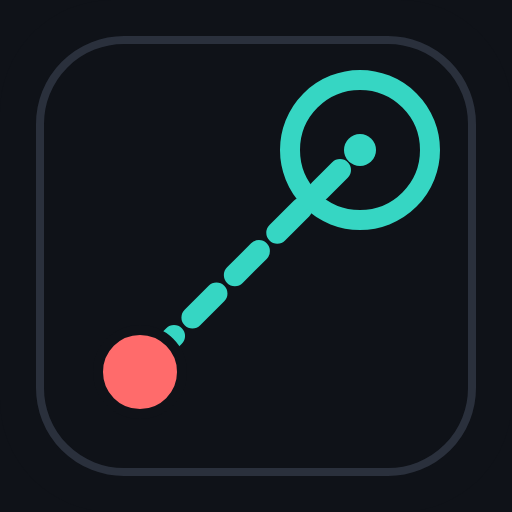
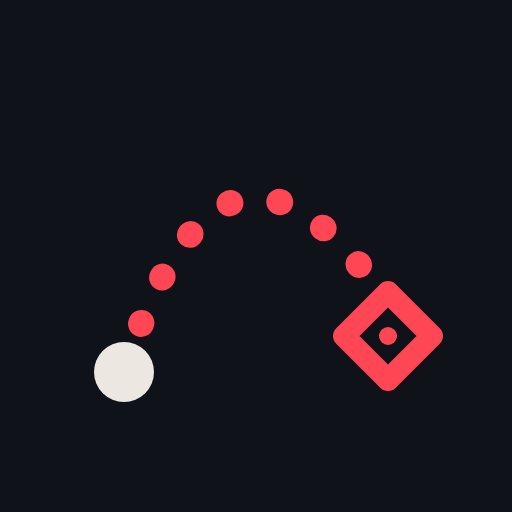
All-agent picker, site letters on maps, simpler detail header, ARC branding
- Agent row lists every agent (icon only, count badge); tap to select, tap again to clear
- 'All agents' reset moves next to the result count; selection is remembered
- Site letters (A/B/C) drawn on the map from valorant-api callouts
- Detail: remove practiced/copy-link footer, edit button moves to the header
- New name ARC — Valorant Lineups with a new minimal icon
- Fix stray 'null' text from replaceChildren

Claude-Session: https://claude.ai/code/session_01Hb5hSZZH2DuYNe5kmAsvQF

diff --git a/assets/app.js b/assets/app.js
@@ -1,6 +1,6 @@
 'use strict';
 
-/* สมุด Lineup — static, no build step.
+/* ARC (Valorant Lineups) — static, no build step.
  * Data sources:
  *   data/lineups.json      → lineups committed to the repo (shared by every device)
  *   localStorage lp.local  → edits made in this browser, not yet exported
@@ -15,7 +15,8 @@ const LS = {
   local: 'lp.local.v1',
   practiced: 'lp.practiced.v1',
   lastMap: 'lp.lastMap',
-  maps: 'lp.api.maps.v1',
+  maps: 'lp.api.maps.v2',
+  agent: 'lp.agent',
   agents: 'lp.api.agents.v1',
 };
 
@@ -111,7 +112,7 @@ const state = {
   local: store.get(LS.local, {}),
   practiced: store.get(LS.practiced, {}),
   map: null,
-  f: { agents: new Set(), side: 'all', site: 'all', type: 'all', q: '', todo: false },
+  f: { agents: new Set(store.get(LS.agent, null) ? [store.get(LS.agent, null)] : []), side: 'all', site: 'all', type: 'all', q: '', todo: false },
   selected: null,
   pick: null,
   editing: null,
@@ -139,8 +140,33 @@ function pickMaps(arr) {
   return arr
     .filter((m) => m.tacticalDescription && m.displayIcon && m.displayName)
     .filter((m) => !seen.has(norm(m.displayName)) && seen.add(norm(m.displayName)))
-    .map((m) => ({ name: m.displayName, icon: m.displayIcon, banner: m.listViewIcon || m.splash || null }))
+    .map((m) => ({ name: m.displayName, icon: m.displayIcon, banner: m.listViewIcon || m.splash || null, sites: mapSites(m) }))
     .sort((a, b) => a.name.localeCompare(b.name));
+}
+
+/** Site letters (A/B/C) on the minimap, from valorant-api callouts (world coords → 0–1). */
+function mapSites(m) {
+  const k = ['xMultiplier', 'yMultiplier', 'xScalarToAdd', 'yScalarToAdd'];
+  if (!k.every((x) => typeof m[x] === 'number')) return [];
+  const acc = {};
+  for (const c of m.callouts || []) {
+    if (c.regionName !== 'Site' || !/^[ABC]$/.test(c.superRegionName) || !c.location) continue;
+    const x = c.location.y * m.xMultiplier + m.xScalarToAdd;
+    const y = c.location.x * m.yMultiplier + m.yScalarToAdd;
+    if (!(x >= 0 && x <= 1 && y >= 0 && y <= 1)) continue;
+    (acc[c.superRegionName] ||= []).push({ x, y });
+  }
+  return Object.entries(acc).sort().map(([name, pts]) => ({
+    name,
+    x: round3(pts.reduce((t, p) => t + p.x, 0) / pts.length),
+    y: round3(pts.reduce((t, p) => t + p.y, 0) / pts.length),
+  }));
+}
+
+function siteLabels(m, box) {
+  for (const st of m?.sites || []) {
+    box.append(el('span', { class: 'site-lbl', style: `left:${st.x * 100}%;top:${st.y * 100}%`, text: st.name }));
+  }
 }
 
 function pickAgents(arr) {
@@ -342,6 +368,7 @@ function renderMap() {
   const pins = $('#pins');
   svg.replaceChildren();
   pins.replaceChildren();
+  siteLabels(m, pins);
 
   const sel = state.selected;
   const list = visible().filter((l) => l.from || l.to).sort((a, b) => (a.id === sel) - (b.id === sel));
@@ -361,27 +388,36 @@ function hover(id) {
   }
 }
 
+function setAgent(key) {
+  state.f.agents = new Set(key ? [key] : []);
+  store.set(LS.agent, key || null);
+  render();
+}
+
 function renderAgents() {
   const row = $('#agents');
-  const names = [...new Map(all().filter((l) => l.agent).map((l) => {
-    const n = agentOf(l.agent)?.name || l.agent;
-    return [norm(n), n];
-  })).values()].sort((a, b) => a.localeCompare(b));
+  const onMap = all().filter((l) => norm(l.map) === norm(state.map));
+  const count = (name) => onMap.filter((l) => norm(l.agent) === norm(name)).length;
+  // every agent from the API, plus any agent name used in lineups but missing from the API
+  const list = state.agents.map((a) => ({ name: a.name, icon: a.icon }));
+  for (const l of all()) if (l.agent && !list.some((a) => norm(a.name) === norm(l.agent))) list.push({ name: l.agent });
+  list.sort((x, y) => x.name.localeCompare(y.name));
   row.replaceChildren();
-  row.hidden = !names.length;
-  if (!names.length) return;
-  row.append(el('button', {
-    type: 'button', class: 'ag all' + (state.f.agents.size ? '' : ' on'),
-    onclick: () => { state.f.agents.clear(); render(); },
-  }, 'ทุกเอเจนต์'));
-  for (const n of names) {
-    const a = agentOf(n);
-    const on = state.f.agents.has(norm(n));
+  row.hidden = !list.length;
+  for (const a of list) {
+    const key = norm(a.name);
+    const on = state.f.agents.has(key);
+    const n = count(a.name);
     row.append(el('button', {
-      type: 'button', class: 'ag' + (on ? ' on' : ''), 'aria-pressed': String(on),
-      onclick: () => { if (on) state.f.agents.delete(norm(n)); else state.f.agents.add(norm(n)); render(); },
-    }, a ? el('img', { src: a.icon, alt: '' }) : null, el('span', { text: n })));
+      type: 'button', class: 'ag' + (on ? ' on' : '') + (n ? ' has' : '') + (a.icon ? '' : ' txt'),
+      'aria-pressed': String(on), title: a.name, 'aria-label': a.name + (n ? ` (${n})` : ''),
+      onclick: () => setAgent(on ? null : key),
+    },
+    a.icon ? el('img', { src: a.icon, alt: '', loading: 'lazy' }) : el('span', { text: a.name }),
+    n ? el('span', { class: 'n', text: String(n) }) : null));
   }
+  const on = row.querySelector('.on');
+  if (on) row.scrollTo({ left: on.offsetLeft - (row.clientWidth - on.offsetWidth) / 2, behavior: 'instant' });
 }
 
 function renderFilters() {
@@ -404,14 +440,19 @@ function renderList() {
   const ul = $('#list');
   const total = all().filter((l) => norm(l.map) === norm(state.map)).length;
   const list = visible().sort(byListOrder);
-  $('#count').textContent = total ? `แสดง ${list.length} จาก ${total} lineup บน ${state.map}` : '';
+  const cnt = $('#count');
+  const agentKey = [...state.f.agents][0];
+  const agentName = agentKey && (agentOf(agentKey)?.name || agentKey);
+  cnt.replaceChildren(
+    el('span', { class: 'grow', text: (agentName ? agentName + ' · ' : '') + (total ? `${list.length} จาก ${total} lineup บน ${state.map}` : '') }),
+    ...(agentName ? [el('button', { type: 'button', class: 'reset-ag', onclick: () => setAgent(null) }, '✕ ทุกเอเจนต์')] : []));
   ul.replaceChildren();
 
   if (!list.length) {
-    ul.append(total
+    ul.append(total && !agentName
       ? el('li', { class: 'empty' }, 'ไม่มี lineup ที่ตรงกับตัวกรอง')
       : el('li', { class: 'empty' },
-        el('span', { text: state.map ? `ยังไม่มี lineup บน ${state.map}` : 'ยังไม่มีข้อมูลแมพ' }),
+        el('span', { text: state.map ? `ยังไม่มี lineup${agentName ? ' ของ ' + agentName : ''} บน ${state.map}` : 'ยังไม่มีข้อมูลแมพ' }),
         state.map ? el('button', { type: 'button', class: 'btn primary', onclick: startAdd }, '+ เพิ่ม lineup แรก') : null));
     return;
   }
@@ -491,6 +532,7 @@ function miniMap(l) {
   const wrap = el('div', { class: 'mini' }, m ? el('img', { src: m.icon, alt: 'มินิแมพ ' + m.name }) : null);
   const svg = svgEl('svg', { viewBox: '0 0 1000 1000', preserveAspectRatio: 'none', 'aria-hidden': 'true' });
   const pins = el('div', { class: 'pins' });
+  siteLabels(m, pins);
   lineEls(l, 'side-' + (l.side || 'none') + ' sel', svg, pins, false);
   wrap.append(svg, pins);
   return wrap;
@@ -524,7 +566,7 @@ function pairFig(m, label) {
 
 function zoom(src, caption) {
   const z = $('#zoom');
-  z.replaceChildren(el('img', { src: safeHref(src), alt: caption || '' }), caption ? el('span', { class: 'zoom-cap', text: caption }) : null);
+  z.replaceChildren(el('img', { src: safeHref(src), alt: caption || '' }), ...(caption ? [el('span', { class: 'zoom-cap', text: caption })] : []));
   z.showModal();
 }
 
@@ -544,7 +586,6 @@ function openDetail(id) {
 
   const d = $('#detail');
   const icon = iconFor(l);
-  const done = !!state.practiced[l.id];
   const media = (l.media || []).map(parseMedia).filter(Boolean);
   const { stand, aim, rest } = splitMedia(media);
   const showPair = stand || aim || l.from;
@@ -561,14 +602,7 @@ function openDetail(id) {
       el('div', { class: 'grow' },
         el('h2', { text: l.title || '(ไม่มีชื่อ)' }),
         el('div', { class: 'sub', text: [l.agent, l.ability, l.site && 'ไซต์ ' + l.site, l.throw].filter(Boolean).join(' · ') })),
-      el('button', {
-        type: 'button', class: 'btn icon land-only' + (done ? ' ok' : ''), title: 'ซ้อมแล้ว', 'aria-label': 'ซ้อมแล้ว',
-        'aria-pressed': String(done), onclick: () => { togglePracticed(l.id); openDetail(l.id); },
-      }, '✓'),
-      el('button', {
-        type: 'button', class: 'btn icon land-only', title: 'แก้ไข', 'aria-label': 'แก้ไข',
-        onclick: () => { d.close(); openEditor(l); },
-      }, '✎'),
+      el('button', { type: 'button', class: 'btn sm', onclick: () => { d.close(); openEditor(l); } }, '✎ แก้ไข'),
       navBtn('‹', 'lineup ก่อนหน้า', prev),
       navBtn('›', 'lineup ถัดไป', next),
       el('button', { type: 'button', class: 'btn icon', 'aria-label': 'ปิด', onclick: () => d.close() }, '✕')),
@@ -583,24 +617,10 @@ function openDetail(id) {
           !l.steps && !l.throw && !media.length
             ? el('p', { class: 'muted', text: 'ยังไม่มีรายละเอียด กด “แก้ไข” เพื่อเพิ่มวิธีทำหรือรูป' }) : null),
         l.from || l.to ? miniMap(l) : null),
-      rest.length ? section('คลิป / รูปอื่น ๆ', el('div', { class: 'gallery' }, rest.map(mediaEl))) : null),
-    el('footer', { class: 'sheet-foot' },
-      el('button', {
-        type: 'button', class: 'btn' + (done ? ' ok' : ''),
-        onclick: () => { togglePracticed(l.id); openDetail(l.id); },
-      }, done ? '✓ ซ้อมแล้ว' : 'ซ้อมแล้ว?'),
-      el('span', { class: 'grow' }),
-      el('button', { type: 'button', class: 'btn', onclick: () => copyLink(l) }, 'คัดลอกลิงก์'),
-      el('button', { type: 'button', class: 'btn primary', onclick: () => { d.close(); openEditor(l); } }, 'แก้ไข'))));
+      rest.length ? section('คลิป / รูปอื่น ๆ', el('div', { class: 'gallery' }, rest.map(mediaEl))) : null)));
 
   if (!d.open) d.showModal();
   d.querySelector('.sheet-body').scrollTop = 0;
-}
-
-async function copyLink(l) {
-  const url = location.href.split('#')[0] + '#/' + encodeURIComponent(l.map || '') + '/' + encodeURIComponent(l.id);
-  try { await navigator.clipboard.writeText(url); toast('คัดลอกลิงก์แล้ว'); }
-  catch { window.prompt('คัดลอกลิงก์นี้', url); }
 }
 
 /* ---------- editor ---------- */

diff --git a/assets/style.css b/assets/style.css
@@ -45,9 +45,13 @@ a { color: var(--accent); }
   backdrop-filter: blur(10px);
   border-bottom: 1px solid var(--line);
 }
-.brand { display: flex; align-items: center; gap: 10px; font-weight: 700; font-size: 17px; margin-right: auto; min-width: 0; }
-.brand img { width: 28px; height: 28px; border-radius: 7px; flex: 0 0 auto; }
-.brand span { white-space: nowrap; overflow: hidden; text-overflow: ellipsis; }
+.brand { display: flex; align-items: center; gap: 9px; margin-right: auto; min-width: 0; }
+.brand img { width: 30px; height: 30px; border-radius: 8px; flex: 0 0 auto; }
+.brand .word { font: 700 22px/1 "Chakra Petch", var(--font); letter-spacing: .08em; color: #ece8e1; }
+.brand .tag {
+  font: 600 9px/1.15 "Chakra Petch", var(--font); letter-spacing: .22em; color: var(--muted);
+  padding-left: 9px; border-left: 2px solid #ff4655; white-space: nowrap;
+}
 .top-actions { display: flex; gap: 8px; align-items: center; }
 
 .btn {
@@ -106,6 +110,7 @@ a { color: var(--accent); }
 }
 
 /* ---------- map ---------- */
+.map-wrap, .mini { container-type: inline-size; }
 .map-wrap {
   position: relative; width: 100%;
   max-width: min(100%, calc(100dvh - 150px));
@@ -118,6 +123,11 @@ a { color: var(--accent); }
 #mapImg { position: absolute; inset: 0; width: 100%; height: 100%; object-fit: contain; pointer-events: none; -webkit-user-drag: none; }
 .map-wrap svg, .mini svg { position: absolute; inset: 0; width: 100%; height: 100%; pointer-events: none; }
 .pins { position: absolute; inset: 0; }
+.site-lbl {
+  position: absolute; transform: translate(-50%, -50%); pointer-events: none;
+  font: 700 clamp(16px, 5.5cqw, 44px)/1 "Chakra Petch", var(--font);
+  color: #ece8e1; opacity: .55; text-shadow: 0 0 6px #000, 0 0 2px #000;
+}
 .map-noimg { position: absolute; inset: 0; display: grid; place-items: center; color: var(--muted); font-size: 14px; padding: 24px; text-align: center;
   background-image: linear-gradient(var(--line) 1px, transparent 1px), linear-gradient(90deg, var(--line) 1px, transparent 1px);
   background-size: 10% 10%; }
@@ -164,13 +174,18 @@ a { color: var(--accent); }
 .filters { display: flex; flex-direction: column; gap: 10px; background: var(--panel); border: 1px solid var(--line); border-radius: var(--radius); padding: 12px; }
 .agent-row { display: flex; gap: 6px; overflow-x: auto; padding-bottom: 2px; scrollbar-width: thin; }
 .ag {
-  flex: 0 0 auto; display: inline-flex; align-items: center; gap: 6px;
-  height: 36px; padding: 0 12px 0 4px; border-radius: 999px;
-  border: 1px solid var(--line); background: var(--panel2); cursor: pointer; font-size: 14px;
+  position: relative; flex: 0 0 auto; display: grid; place-items: center;
+  width: 44px; height: 44px; padding: 3px; border-radius: 12px;
+  border: 1px solid var(--line); background: var(--panel2); cursor: pointer;
 }
-.ag.all { padding: 0 12px; }
-.ag img { width: 28px; height: 28px; border-radius: 50%; background: #0006; }
-.ag.on { border-color: var(--accent); background: color-mix(in srgb, var(--accent) 16%, var(--panel2)); }
+.ag img { width: 100%; height: 100%; border-radius: 9px; object-fit: cover; opacity: .45; filter: grayscale(.7); transition: opacity .12s, filter .12s; }
+.ag.has img { opacity: .9; filter: none; }
+.ag.on { border-color: var(--accent); box-shadow: 0 0 0 1px var(--accent); background: color-mix(in srgb, var(--accent) 16%, var(--panel2)); }
+.ag.on img { opacity: 1; filter: none; }
+.ag.txt { width: auto; padding: 0 12px; font-size: 14px; }
+.ag .n { position: absolute; right: -3px; top: -3px; min-width: 17px; height: 17px; padding: 0 4px; border-radius: 999px; background: var(--accent); color: var(--accent-ink); font-size: 11px; line-height: 17px; font-weight: 700; }
+.agent-row { padding-top: 4px; }
+.reset-ag { flex: 0 0 auto; border: 1px solid var(--line); background: var(--panel2); color: var(--text); border-radius: 999px; padding: 2px 10px; font-size: 13px; cursor: pointer; }
 .seg { display: flex; background: var(--panel2); border: 1px solid var(--line); border-radius: 10px; padding: 3px; }
 .seg button { flex: 1; border: 0; background: none; border-radius: 7px; padding: 6px 0; cursor: pointer; color: var(--muted); }
 .seg button.on { background: var(--bg); color: var(--text); box-shadow: 0 1px 0 #0006; }
@@ -187,7 +202,7 @@ textarea { resize: vertical; line-height: 1.5; }
 .check input { width: 18px; height: 18px; accent-color: var(--accent); }
 
 /* ---------- list ---------- */
-.count { color: var(--muted); font-size: 13px; margin: 12px 2px 6px; min-height: 1em; }
+.count { display: flex; align-items: center; gap: 8px; color: var(--muted); font-size: 13px; margin: 12px 2px 6px; min-height: 1em; }
 .list { list-style: none; margin: 0; padding: 0; display: flex; flex-direction: column; gap: 8px; }
 .card { display: flex; align-items: stretch; background: var(--panel); border: 1px solid var(--line); border-radius: var(--radius); overflow: hidden; }
 .card.sel { border-color: var(--accent); }
@@ -310,7 +325,7 @@ dialog.zoom img { max-width: 100%; max-height: 100dvh; object-fit: contain; }
 }
 
 /* ---------- landscape phone: map fills the height on the left, everything else scrolls on the right ---------- */
-.land-only, .scroll-hint { display: none; }
+.scroll-hint { display: none; }
 @media (orientation: landscape) and (max-height: 600px) {
   html, body { height: 100dvh; overflow: hidden; }
   .btn { min-height: 34px; }
@@ -331,8 +346,9 @@ dialog.zoom img { max-width: 100%; max-height: 100dvh; object-fit: contain; }
     position: sticky; top: 0; z-index: 6; padding: 0 0 6px; min-height: 0; gap: 8px;
     background: var(--bg); border: 0; -webkit-backdrop-filter: none; backdrop-filter: none;
   }
-  .list-col .brand { font-size: 15px; gap: 8px; }
-  .list-col .brand img { width: 24px; height: 24px; }
+  .list-col .brand img { width: 26px; height: 26px; }
+  .list-col .brand .word { font-size: 19px; }
+  .ag { width: 40px; height: 40px; }
   .list-col .menu { right: 0; }
 
   .maps { padding: 0 0 8px; }
@@ -355,8 +371,6 @@ dialog.zoom img { max-width: 100%; max-height: 100dvh; object-fit: contain; }
   dialog.sheet.detail .sheet-head .sub { font-size: 12px; white-space: nowrap; overflow: hidden; text-overflow: ellipsis; }
   dialog.sheet.detail .head-ic { width: 32px; height: 32px; padding: 3px; }
   dialog.sheet.detail .sheet-body { padding: 0 6px 16px; gap: 14px; }
-  dialog.sheet.detail .sheet-foot { display: none; }
-  .land-only { display: inline-flex; }
   .pair { position: relative; gap: 6px; height: calc(100dvh - 48px); padding: 4px 0 6px; }
   .pair-fig { height: 100%; }
   .pair-fig .zoomable { height: 100%; }

diff --git a/index.html b/index.html
@@ -4,22 +4,22 @@
   <meta charset="utf-8">
   <meta name="viewport" content="width=device-width, initial-scale=1, viewport-fit=cover">
   <meta name="theme-color" content="#0f1218">
-  <meta name="description" content="สมุดจด lineup Valorant ส่วนตัว ใช้ได้ทั้งคอมและมือถือ">
-  <title>สมุด Lineup</title>
+  <meta name="description" content="ARC — สมุดจด lineup Valorant ส่วนตัว ใช้ได้ทั้งคอมและมือถือ">
+  <title>ARC — Valorant Lineups</title>
   <link rel="manifest" href="manifest.webmanifest">
   <link rel="icon" href="assets/icon.svg" type="image/svg+xml">
   <link rel="apple-touch-icon" href="assets/icon-180.png">
   <meta name="apple-mobile-web-app-capable" content="yes">
   <meta name="apple-mobile-web-app-status-bar-style" content="black-translucent">
-  <meta name="apple-mobile-web-app-title" content="Lineup">
+  <meta name="apple-mobile-web-app-title" content="ARC">
   <link rel="preconnect" href="https://fonts.googleapis.com">
   <link rel="preconnect" href="https://fonts.gstatic.com" crossorigin>
-  <link href="https://fonts.googleapis.com/css2?family=Noto+Sans+Thai:wght@400;500;600;700&display=swap" rel="stylesheet">
+  <link href="https://fonts.googleapis.com/css2?family=Chakra+Petch:wght@600;700&family=Noto+Sans+Thai:wght@400;500;600;700&display=swap" rel="stylesheet">
   <link rel="stylesheet" href="assets/style.css">
 </head>
 <body>
   <header class="top">
-    <div class="brand"><img src="assets/icon.svg" alt=""><span>สมุด Lineup</span></div>
+    <div class="brand" aria-label="ARC Valorant Lineups"><img src="assets/icon.svg" alt=""><span class="word">ARC</span><span class="tag">VALORANT<br>LINEUPS</span></div>
     <div class="top-actions">
       <button id="unsynced" class="unsynced" type="button" hidden></button>
       <button id="btnAdd" class="btn primary" type="button">+ เพิ่ม</button>
@@ -74,7 +74,7 @@
   </main>
 
   <footer class="foot">
-    สมุด Lineup เป็นโปรเจกต์ส่วนตัว ไม่ได้รับการรับรองจาก Riot Games และไม่ได้สะท้อนความเห็นของ Riot Games
+    ARC เป็นโปรเจกต์ส่วนตัว ไม่ได้รับการรับรองจาก Riot Games และไม่ได้สะท้อนความเห็นของ Riot Games
     · ภาพแมพ/เอเจนต์จาก <a href="https://valorant-api.com" target="_blank" rel="noopener">valorant-api.com</a>
   </footer>
 

diff --git a/sw.js b/sw.js
@@ -1,12 +1,12 @@
 'use strict';
 
-/* Service worker สำหรับสมุด Lineup
+/* Service worker สำหรับ ARC
  * - หน้าเว็บ + data/lineups.json: ลองเน็ตก่อน ถ้าไม่มีเน็ตใช้ของในแคช
  * - css/js/รูป (รวมรูปแมพจาก valorant-api): ใช้ของในแคชทันที แล้วอัปเดตเบื้องหลัง
  * - คลิปวิดีโอ: ไม่แคช โหลดตอนกดดูเท่านั้น (ไฟล์ใหญ่)
  * เปลี่ยน VERSION เมื่ออยากล้างแคชทั้งหมด
  */
-const VERSION = 'v1';
+const VERSION = 'v2';
 const SHELL = 'lp-shell-' + VERSION;
 const RUNTIME = 'lp-runtime-' + VERSION;
 const SHELL_FILES = [

diff --git a/README.md b/README.md
@@ -1,4 +1,4 @@
-# สมุด Lineup
+# ARC — Valorant Lineups
 
 เว็บจด lineup Valorant ส่วนตัว เปิดได้ทั้งคอมและมือถือ ไม่มีโฆษณา ไม่ต้องสมัครสมาชิก
 เป็นไฟล์ HTML/CSS/JS ล้วน ไม่ต้อง build — รายละเอียดแผนดูที่ [PLAN.md](PLAN.md)
@@ -42,5 +42,5 @@ python -m http.server 8000
 
 ---
 
-สมุด Lineup เป็นโปรเจกต์ส่วนตัว ไม่ได้รับการรับรองจาก Riot Games และไม่ได้สะท้อนความเห็นของ Riot Games
+ARC เป็นโปรเจกต์ส่วนตัว ไม่ได้รับการรับรองจาก Riot Games และไม่ได้สะท้อนความเห็นของ Riot Games
 ภาพแมพ/เอเจนต์ดึงจาก [valorant-api.com](https://valorant-api.com) (API ไม่เป็นทางการ)
